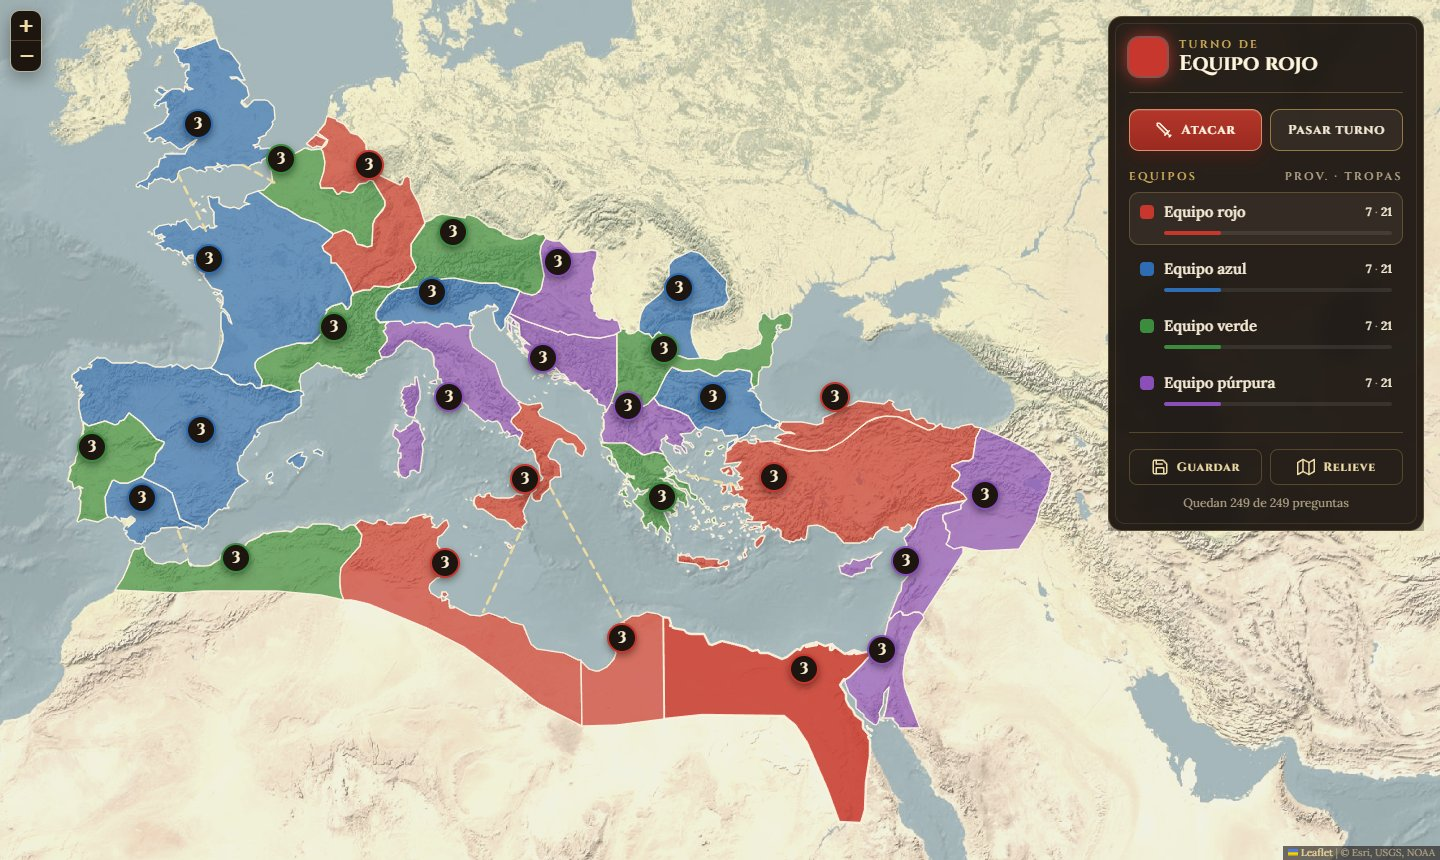
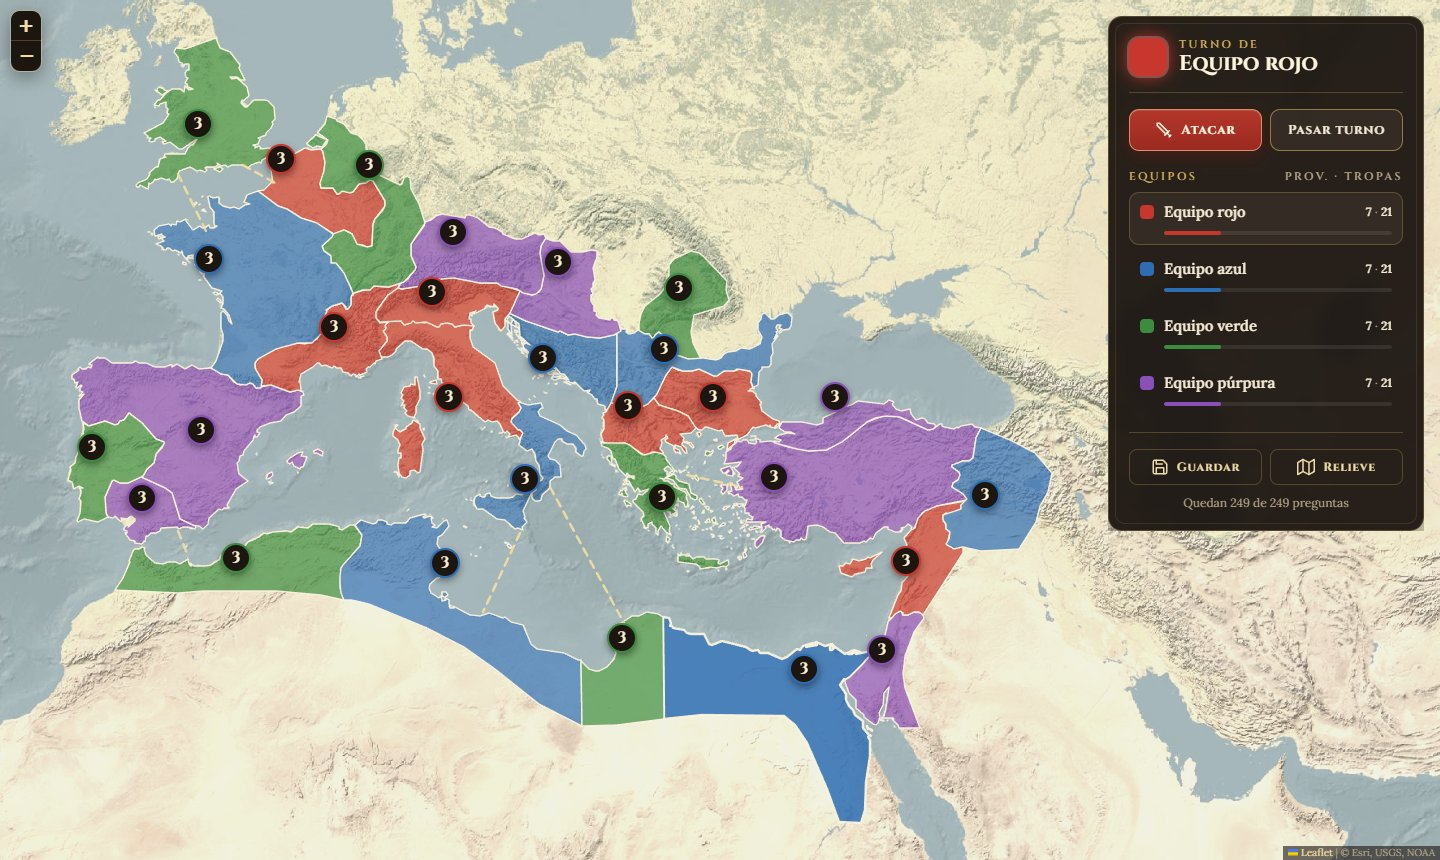
Elegir el ataque desde el panel lateral o desde el mapa
- Al pulsar Atacar, el panel muestra los desplegables de provincia atacante y
  objetivo, con Cancelar y Confirmar ataque. Desaparece el modal aparte.
- Panel y mapa están sincronizados: lo que se elige en uno se resalta en el otro,
  y pulsar un objetivo en el mapa lanza el ataque directamente.
- La lista de atacantes solo incluye provincias con 2+ tropas y algún enemigo
  al lado (antes podía salir una sin objetivos posibles).
- README y captura del ataque actualizados.

Changed region(s): [[0.0312, 0.0302, 0.75, 0.7256], [0.2188, 0.6047, 0.625, 0.9674], [0.4688, 0.6349, 0.5, 0.6651]]

diff --git a/Aquilae.html b/Aquilae.html
@@ -188,10 +188,16 @@
         .action-row { display: grid; grid-template-columns: 1fr 1fr; gap: 8px; margin-top: 16px; }
         .action-row .btn { padding: 11px 8px; white-space: nowrap; font-size: 13px; }
         body.phase-welcome #gameUI { display: none; }
-        .attack-hint { display: none; margin-top: 12px; padding: 12px 14px; border-radius: 10px; background: rgba(155, 42, 32, 0.22); border: 1px solid rgba(255, 120, 100, 0.35); font-size: 14px; line-height: 1.45; }
-        .attack-hint.is-visible { display: block; }
-        .attack-hint__step { font-family: var(--font-display); font-size: 11px; letter-spacing: 0.18em; color: #ffb3a3; text-transform: uppercase; margin-bottom: 4px; }
-        .attack-hint__actions { display: flex; gap: 14px; margin-top: 10px; font-size: 13px; }
+        .attack-panel { display: none; margin-top: 12px; padding: 14px; border-radius: 10px; background: rgba(155, 42, 32, 0.16); border: 1px solid rgba(255, 120, 100, 0.3); }
+        .attack-panel.is-visible { display: block; }
+        .attack-panel .eyebrow { color: #ffb3a3; margin-bottom: 10px; }
+        .attack-panel .field { margin-bottom: 10px; }
+        .attack-panel select { font-size: 14px; padding: 8px 10px; }
+        .attack-panel select:disabled { opacity: 0.55; }
+        .attack-panel__note { font-size: 12.5px; line-height: 1.4; color: var(--muted); margin: 2px 0 12px; }
+        .attack-panel__actions { display: grid; grid-template-columns: auto 1fr; gap: 8px; }
+        .attack-panel__actions .btn { white-space: nowrap; padding: 9px 10px; letter-spacing: 0.02em; min-width: 0; }
+        #attack[aria-pressed="true"] { box-shadow: inset 0 2px 6px rgba(0,0,0,0.45); border-color: var(--gold-soft); }
         #playersList { margin-top: 18px; }
         .players-title { display: flex; justify-content: space-between; align-items: baseline; margin-bottom: 8px; }
         .player-info { position: relative; display: grid; grid-template-columns: 14px 1fr auto; align-items: center; gap: 10px; padding: 9px 10px; border-radius: 10px; border: 1px solid transparent; }
@@ -325,12 +331,14 @@
                     </button>
                     <button id="nextTurn" class="btn" type="button">Pasar turno</button>
                 </div>
-                <div class="attack-hint" id="attackHint" role="status">
-                    <div class="attack-hint__step" id="attackHintStep">Paso 1 de 2</div>
-                    <div id="attackHintText">Pulsa en el mapa la provincia desde la que atacas.</div>
-                    <div class="attack-hint__actions">
-                        <button type="button" class="link-btn" id="cancelAttackMode">Cancelar</button>
-                        <button type="button" class="link-btn" id="attackListBtn">Elegir de una lista</button>
+                <div class="attack-panel" id="attackPanel">
+                    <p class="eyebrow">Elegir ataque</p>
+                    <label class="field"><span>Provincia atacante</span><select id="attackerProvince"></select></label>
+                    <label class="field"><span>Provincia objetivo</span><select id="targetProvince"></select></label>
+                    <p class="attack-panel__note" id="attackNote"></p>
+                    <div class="attack-panel__actions">
+                        <button id="closeAttack" class="btn btn--ghost btn--small" type="button">Cancelar</button>
+                        <button id="confirmAttack" class="btn btn--primary btn--small" type="button" disabled>Confirmar ataque</button>
                     </div>
                 </div>
                 <div id="status"></div>
@@ -377,18 +385,6 @@
             </div>
             <div class="modal-buttons">
                 <button id="closeTroops" class="btn btn--primary">Hecho</button>
-            </div>
-        </div>
-    </div>
-
-    <div id="attackModal" class="modal">
-        <div class="card modal-content">
-            <h3>Atacar</h3>
-            <label class="field"><span>Provincia atacante</span><select id="attackerProvince"></select></label>
-            <label class="field"><span>Provincia objetivo</span><select id="targetProvince"></select></label>
-            <div class="modal-buttons">
-                <button id="closeAttack" class="btn btn--ghost">Cancelar</button>
-                <button id="confirmAttack" class="btn btn--primary">Confirmar ataque</button>
             </div>
         </div>
     </div>
@@ -494,16 +490,15 @@
         const fixedColors = ['#C8372D', '#2E6DB4', '#3C8C3F', '#8A4FB8']; // Rojo, Azul, Verde, Púrpura
         const NEUTRAL_FILL = '#d8c69a';
 
-        // Estado del ataque con clic en el mapa
-        let attackMode = false;      // true mientras se eligen provincias en el mapa
-        let attackFrom = null;       // provincia atacante elegida
-        let attackTargets = new Set(); // provincias que se pueden atacar desde attackFrom
-        let pendingAttack = null;    // { attacker, target } del ataque en curso
+        // Estado del ataque (se elige en el panel lateral o pulsando en el mapa)
+        let attackMode = false;          // true mientras se está eligiendo un ataque
+        let attackFrom = null;           // provincia atacante elegida
+        let attackTarget = null;         // provincia objetivo elegida en el panel
+        let attackTargets = new Set();   // provincias que se pueden atacar desde attackFrom
+        let attackSources = new Set();   // provincias propias desde las que se puede atacar
+        let pendingAttack = null;        // { attacker, target } del ataque en curso
         let hoveredProvince = null;
 
-        function canAttackFrom(prov) {
-            return prov && prov.owner === currentPlayerIndex && prov.troops >= 2;
-        }
         function isValidTarget(attacker, target) {
             if (!attacker || !target || target === attacker || target.owner === currentPlayerIndex) return false;
             try {
@@ -511,6 +506,20 @@
             } catch (e) {
                 return false;
             }
+        }
+        // Solo cuentan las provincias con 2+ tropas que tengan algún enemigo al lado
+        function computeAttackSources() {
+            attackSources = new Set(provinces.filter(p =>
+                p.owner === currentPlayerIndex && p.troops >= 2 && provinces.some(t => isValidTarget(p, t))));
+        }
+        function canAttackFrom(prov) {
+            return attackSources.has(prov);
+        }
+        function provinceByName(name) {
+            return provinces.find(p => p.properties && p.properties.name === name) || null;
+        }
+        function sortedByName(list) {
+            return [...list].sort((a, b) => a.properties.name.localeCompare(b.properties.name, 'es', { sensitivity: 'base' }));
         }
 
         // Estilo de cada provincia según el estado de la partida
@@ -527,6 +536,8 @@
             if (attackMode) {
                 if (feature === attackFrom) {
                     Object.assign(style, { weight: 4, color: '#ffd66b', fillOpacity: 0.88 });
+                } else if (feature === attackTarget) {
+                    Object.assign(style, { weight: 4.5, color: '#ff6a52', fillOpacity: 0.95 });
                 } else if (attackFrom && attackTargets.has(feature)) {
                     Object.assign(style, { weight: 3.5, color: '#ff6a52', fillOpacity: 0.85, dashArray: '7 5' });
                 } else if (!attackFrom && canAttackFrom(feature)) {
@@ -556,57 +567,96 @@
                     || prov === attackFrom
                     || (attackFrom ? attackTargets.has(prov) : canAttackFrom(prov));
                 el.classList.toggle('is-dim', !relevant);
-                el.classList.toggle('is-focus', attackMode && (prov === attackFrom || (attackFrom && attackTargets.has(prov))));
+                el.classList.toggle('is-focus', attackMode && (prov === attackFrom || prov === attackTarget || (attackFrom && attackTargets.has(prov))));
             });
         }
 
-        function setAttackHint(step, text) {
-            document.getElementById('attackHintStep').textContent = step;
-            document.getElementById('attackHintText').textContent = text;
+        function fillSelect(select, provincesList, placeholder, selected) {
+            select.innerHTML = '';
+            const first = document.createElement('option');
+            first.value = '';
+            first.textContent = placeholder;
+            select.appendChild(first);
+            provincesList.forEach(p => {
+                const opt = document.createElement('option');
+                opt.value = p.properties.name;
+                opt.textContent = `${p.properties.name} (${p.troops})`;
+                select.appendChild(opt);
+            });
+            select.value = selected ? selected.properties.name : '';
+        }
+
+        // Sincroniza el panel lateral con lo elegido (desde el panel o desde el mapa)
+        function renderAttackPanel() {
+            const attackerSelect = document.getElementById('attackerProvince');
+            const targetSelect = document.getElementById('targetProvince');
+            fillSelect(attackerSelect, sortedByName(attackSources), 'Elige provincia…', attackFrom);
+            attackerSelect.disabled = attackSources.size === 0;
+            if (attackFrom) {
+                fillSelect(targetSelect, sortedByName(attackTargets), 'Elige objetivo…', attackTarget);
+                targetSelect.disabled = false;
+            } else {
+                fillSelect(targetSelect, [], 'Primero elige la atacante', null);
+                targetSelect.disabled = true;
+            }
+            document.getElementById('confirmAttack').disabled = !(attackFrom && attackTarget);
+            document.getElementById('attackNote').textContent = attackSources.size === 0
+                ? 'No tienes provincias con al menos 2 tropas junto a un enemigo.'
+                : 'También puedes pulsar las provincias en el mapa.';
         }
 
         function enterAttackMode() {
-            const player = players[currentPlayerIndex];
-            if (!player) return;
+            if (!players[currentPlayerIndex]) return;
             attackMode = true;
             attackFrom = null;
+            attackTarget = null;
             attackTargets = new Set();
+            computeAttackSources();
             document.body.classList.add('attack-mode');
-            document.getElementById('attackHint').classList.add('is-visible');
-            if (!player.provinces.some(canAttackFrom)) {
-                setAttackHint('Sin ataques posibles', 'Necesitas una provincia con al menos 2 tropas para atacar.');
-            } else {
-                setAttackHint('Paso 1 de 2', 'Pulsa en el mapa la provincia desde la que atacas (resaltadas en dorado).');
-            }
+            document.getElementById('attack').setAttribute('aria-pressed', 'true');
+            document.getElementById('attackPanel').classList.add('is-visible');
+            renderAttackPanel();
             refreshMap();
         }
 
         function exitAttackMode() {
             attackMode = false;
             attackFrom = null;
+            attackTarget = null;
             attackTargets = new Set();
+            attackSources = new Set();
             document.body.classList.remove('attack-mode');
-            document.getElementById('attackHint').classList.remove('is-visible');
+            document.getElementById('attack').setAttribute('aria-pressed', 'false');
+            document.getElementById('attackPanel').classList.remove('is-visible');
             refreshMap();
         }
 
+        function setAttacker(feature) {
+            attackFrom = feature;
+            attackTarget = null;
+            attackTargets = feature ? new Set(provinces.filter(p => isValidTarget(feature, p))) : new Set();
+            renderAttackPanel();
+            refreshMap();
+        }
+
+        function setTarget(feature) {
+            attackTarget = feature;
+            renderAttackPanel();
+            refreshMap();
+        }
+
+        function launchAttack(attacker, target) {
+            exitAttackMode();
+            pendingAttack = { attacker: attacker, target: target };
+            showQuestion(attacker, target);
+        }
+
+        // Clic en el mapa: elegir atacante, o lanzar el ataque al pulsar un objetivo válido
         function handleAttackClick(feature) {
             if (canAttackFrom(feature)) {
-                attackFrom = feature;
-                attackTargets = new Set(provinces.filter(p => isValidTarget(feature, p)));
-                if (attackTargets.size === 0) {
-                    setAttackHint('Paso 1 de 2', `${feature.properties.name} no tiene provincias enemigas al lado. Elige otra.`);
-                } else {
-                    setAttackHint('Paso 2 de 2', `Atacas desde ${feature.properties.name}. Pulsa la provincia enemiga que quieres conquistar.`);
-                }
-                refreshMap();
-                return;
-            }
-            if (attackFrom && attackTargets.has(feature)) {
-                const attacker = attackFrom;
-                exitAttackMode();
-                pendingAttack = { attacker: attacker, target: feature };
-                showQuestion(attacker, feature);
+                setAttacker(feature);
+            } else if (attackFrom && attackTargets.has(feature)) {
+                launchAttack(attackFrom, feature);
             }
         }
 
@@ -1523,85 +1573,23 @@
             document.getElementById('troopsModal').style.display = 'none';
         });
 
-        // Ataque: por defecto se eligen las provincias pulsando en el mapa
+        // Ataque: se elige en el panel lateral o pulsando en el mapa
         document.getElementById('attack').addEventListener('click', function() {
             if (attackMode) exitAttackMode();
             else enterAttackMode();
         });
-        document.getElementById('cancelAttackMode').addEventListener('click', exitAttackMode);
-        document.getElementById('attackListBtn').addEventListener('click', function() {
-            exitAttackMode();
-            openAttackList();
-        });
+        document.getElementById('closeAttack').addEventListener('click', exitAttackMode);
         document.addEventListener('keydown', function(e) {
             if (e.key === 'Escape' && attackMode) exitAttackMode();
         });
-
-        // Alternativa: elegir atacante y objetivo en desplegables
-        function openAttackList() {
-            const attackerSelect = document.getElementById('attackerProvince');
-            const targetSelect = document.getElementById('targetProvince');
-            // limpiar selects
-            while (attackerSelect.firstChild) attackerSelect.removeChild(attackerSelect.firstChild);
-            while (targetSelect.firstChild) targetSelect.removeChild(targetSelect.firstChild);
-            // Recolectar y ordenar alfabeticamente las provincias atacantes, mostrando tropas
-            const attackerOptions = (players[currentPlayerIndex] && players[currentPlayerIndex].provinces || [])
-                .filter(p => p.troops >= 2)
-                .map(p => ({ name: p.properties && p.properties.name, troops: p.troops }))
-                .filter(o => o.name)
-                .sort((a, b) => a.name.localeCompare(b.name, 'es', { sensitivity: 'base' }));
-
-            attackerOptions.forEach(o => {
-                const opt = document.createElement('option');
-                opt.value = o.name;
-                opt.textContent = `${o.name} (${o.troops})`;
-                attackerSelect.appendChild(opt);
-            });
-            // Seleccionar el primer atacante válido y forzar el change para poblar targets
-            if (attackerSelect.options.length > 0) {
-                attackerSelect.selectedIndex = 0;
-                attackerSelect.dispatchEvent(new Event('change'));
-            }
-            // targetSelect se llena cuando se selecciona attacker
-            document.getElementById('attackModal').style.display = 'flex';
-        }
-
-        // Event listener para actualizar targets cuando cambia attacker
         document.getElementById('attackerProvince').addEventListener('change', function() {
-            const selectedAttackerName = this.value;
-            const attacker = provinces.find(p => p.properties.name === selectedAttackerName);
-            const targetSelect = document.getElementById('targetProvince');
-            // limpiar options previas
-            while (targetSelect.firstChild) targetSelect.removeChild(targetSelect.firstChild);
-            if (!attacker) return;
-            // Recolectar objetivos válidos y ordenarlos alfabéticamente, mostrando tropas
-            const targetOptions = provinces
-                .filter(prov => prov.owner !== currentPlayerIndex && (turf.booleanIntersects(attacker, prov) || areConnectedBySea(attacker, prov)))
-                .map(p => ({ name: p.properties && p.properties.name, troops: p.troops }))
-                .filter(o => o.name)
-                .sort((a, b) => a.name.localeCompare(b.name, 'es', { sensitivity: 'base' }));
-            targetOptions.forEach(o => {
-                const opt = document.createElement('option');
-                opt.value = o.name;
-                opt.textContent = `${o.name} (${o.troops})`;
-                targetSelect.appendChild(opt);
-            });
+            setAttacker(provinceByName(this.value));
         });
-
+        document.getElementById('targetProvince').addEventListener('change', function() {
+            setTarget(provinceByName(this.value));
+        });
         document.getElementById('confirmAttack').addEventListener('click', function() {
-            const attackerName = document.getElementById('attackerProvince').value;
-            const targetName = document.getElementById('targetProvince').value;
-            const attacker = provinces.find(p => p.properties.name === attackerName);
-            const target = provinces.find(p => p.properties.name === targetName);
-            if (attacker && target) {
-                document.getElementById('attackModal').style.display = 'none';
-                pendingAttack = { attacker: attacker, target: target };
-                showQuestion(attacker, target);
-            }
-        });
-
-        document.getElementById('closeAttack').addEventListener('click', function() {
-            document.getElementById('attackModal').style.display = 'none';
+            if (attackFrom && attackTarget) launchAttack(attackFrom, attackTarget);
         });
 
         document.getElementById('nextTurn').addEventListener('click', function() {

diff --git a/README.md b/README.md
@@ -16,15 +16,15 @@ Juego de estrategia por turnos en el navegador para repasar Historia de Roma y L
 
 1. Se eligen de 2 a 4 equipos y se cargan las preguntas (un archivo propio o el banco de ejemplo).
 2. Las provincias se reparten al azar y cada una empieza con 3 tropas.
-3. En su turno, un equipo pulsa **Atacar** y elige en el mapa una de sus provincias con al menos 2 tropas. El juego resalta las provincias enemigas vecinas que puede atacar, por tierra o por ruta marítima, y el equipo pulsa la que quiere conquistar. También se puede elegir desde una lista.
+3. En su turno, un equipo pulsa **Atacar** y elige una de sus provincias con al menos 2 tropas y la provincia enemiga vecina que quiere conquistar, por tierra o por ruta marítima. Se puede hacer pulsando en el mapa, que resalta los objetivos posibles, o con los desplegables del panel lateral. Las dos vías están sincronizadas.
 4. Sale una pregunta. El docente muestra la respuesta y marca si ha sido un **acierto** (se conquista la provincia) o un **fallo** (la provincia atacante se queda con 1 tropa).
 5. Gana quien conquiste todo el Imperio. Si se acaban las preguntas, gana el equipo con más tropas.
 
 El docente puede ajustar las tropas de cualquier provincia pulsándola, y la partida se puede guardar en un archivo para retomarla en la siguiente clase.
 
-| Elegir el ataque en el mapa | Pregunta y respuesta |
+| Elegir el ataque (mapa o panel) | Pregunta y respuesta |
 |---|---|
-| ![Ataque desde Germania con los objetivos posibles resaltados](docs/capturas/03-ataque.jpg) | ![Pregunta durante un ataque](docs/capturas/04-pregunta.jpg) |
+| ![Ataque elegido en el panel lateral, con la atacante y los objetivos posibles resaltados en el mapa](docs/capturas/03-ataque.jpg) | ![Pregunta durante un ataque](docs/capturas/04-pregunta.jpg) |
 
 ![Configuración de la partida](docs/capturas/01-inicio.jpg)
 
